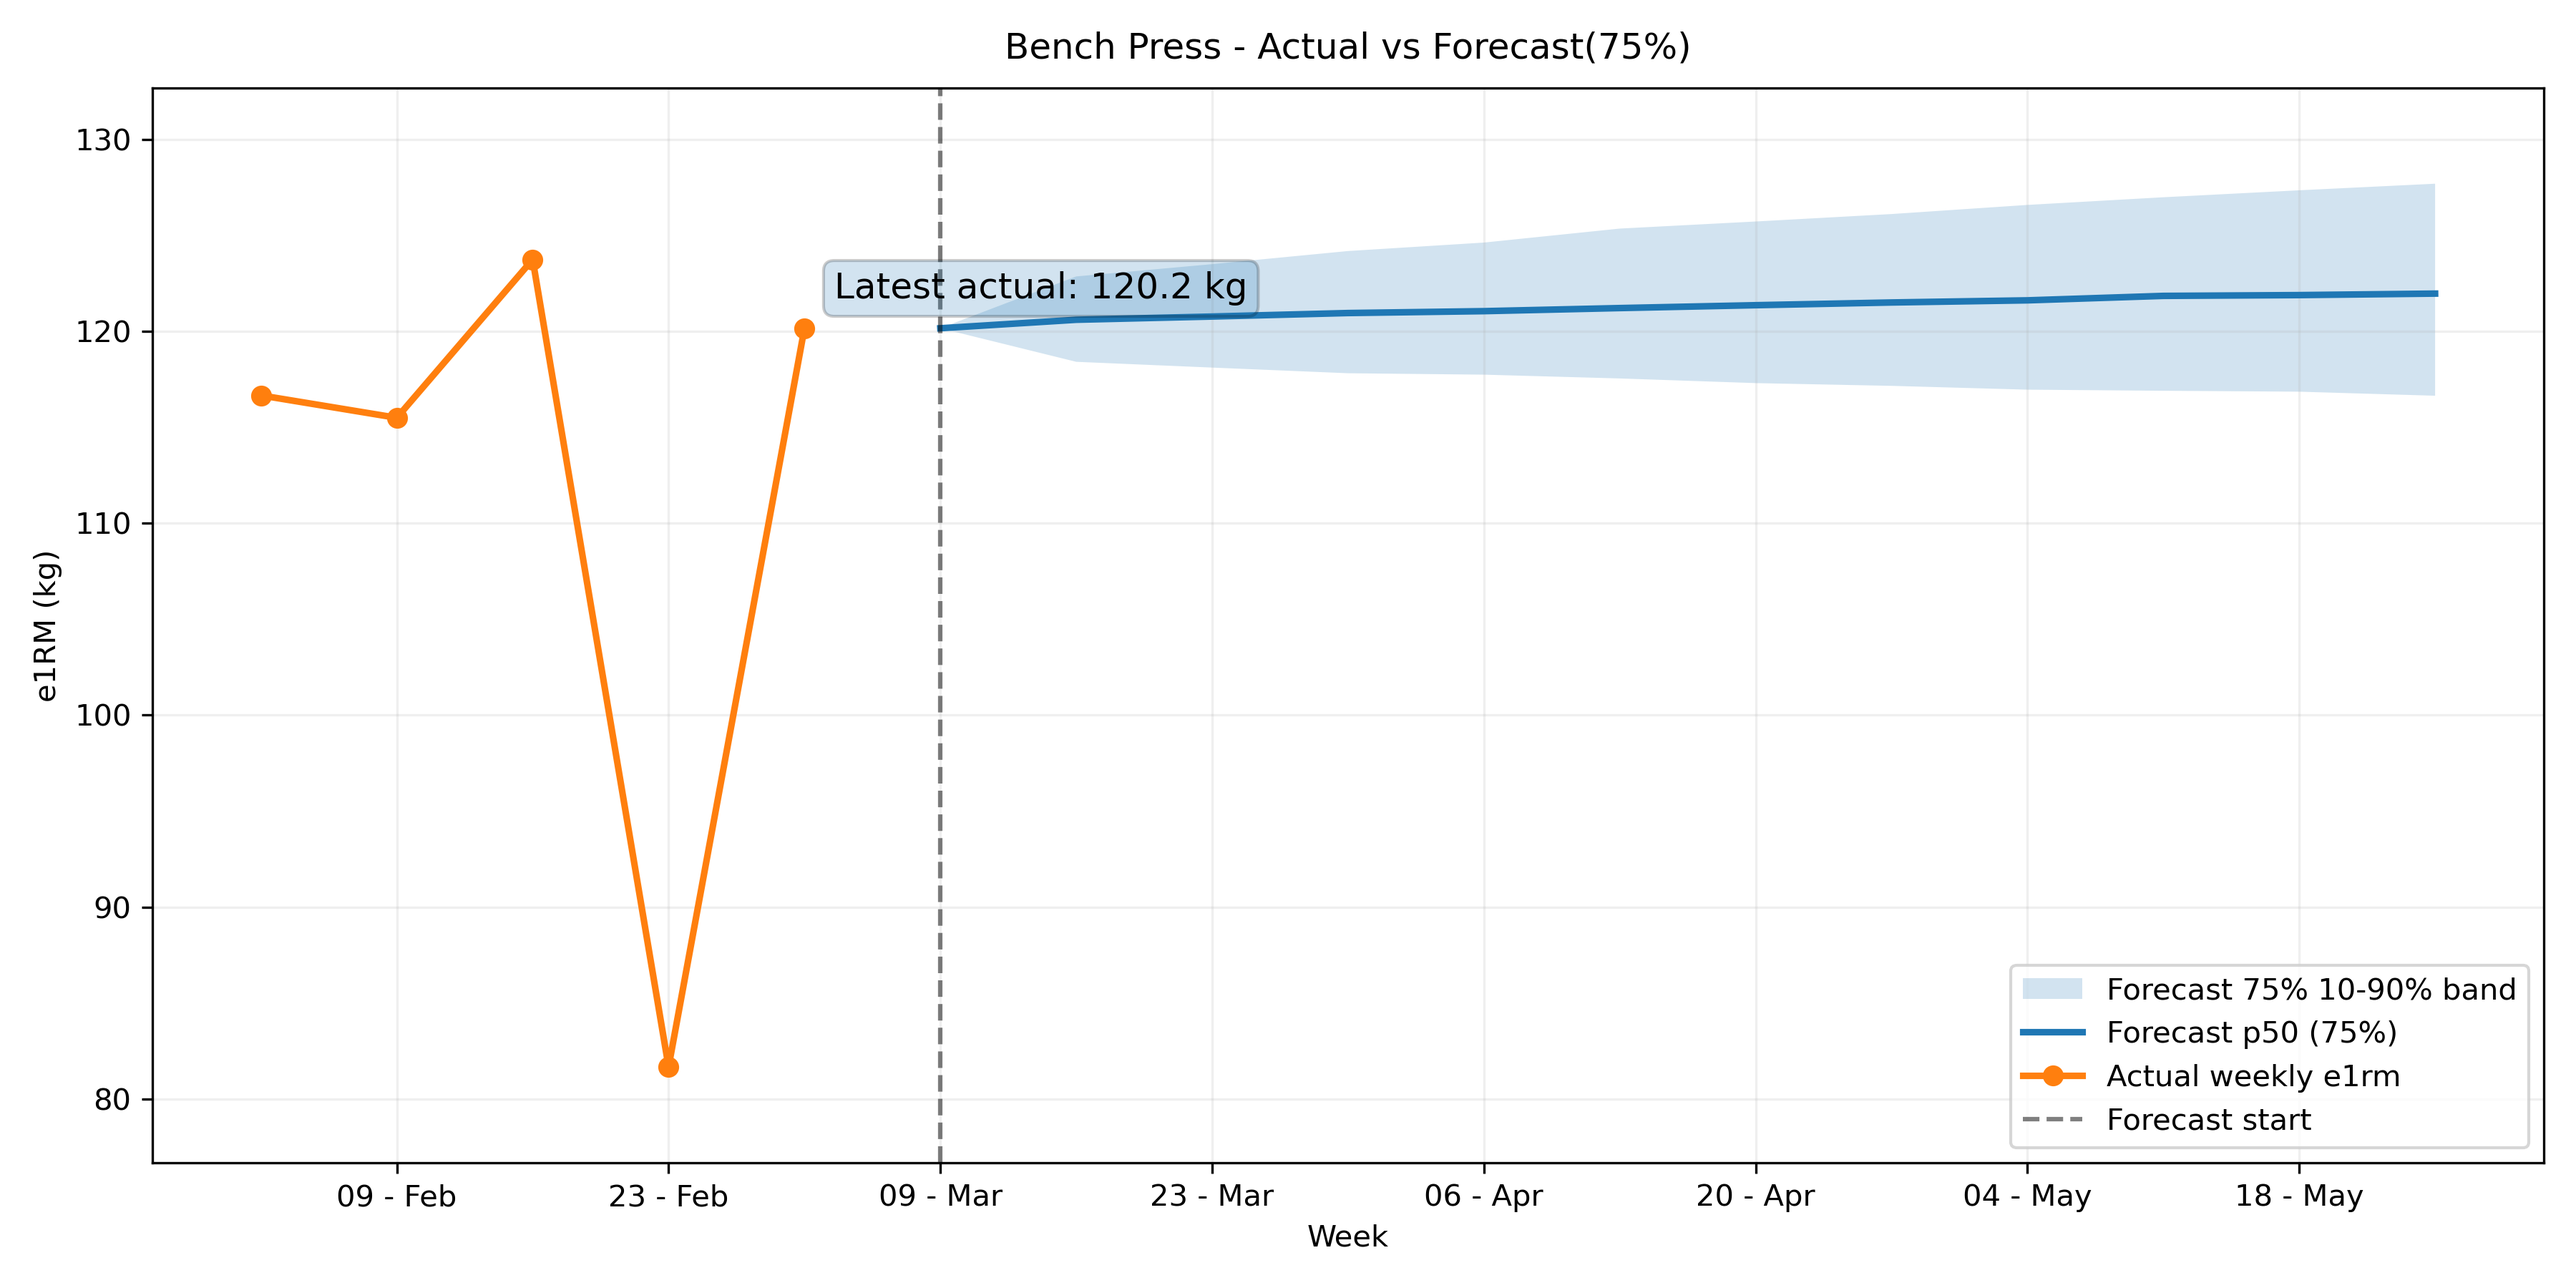
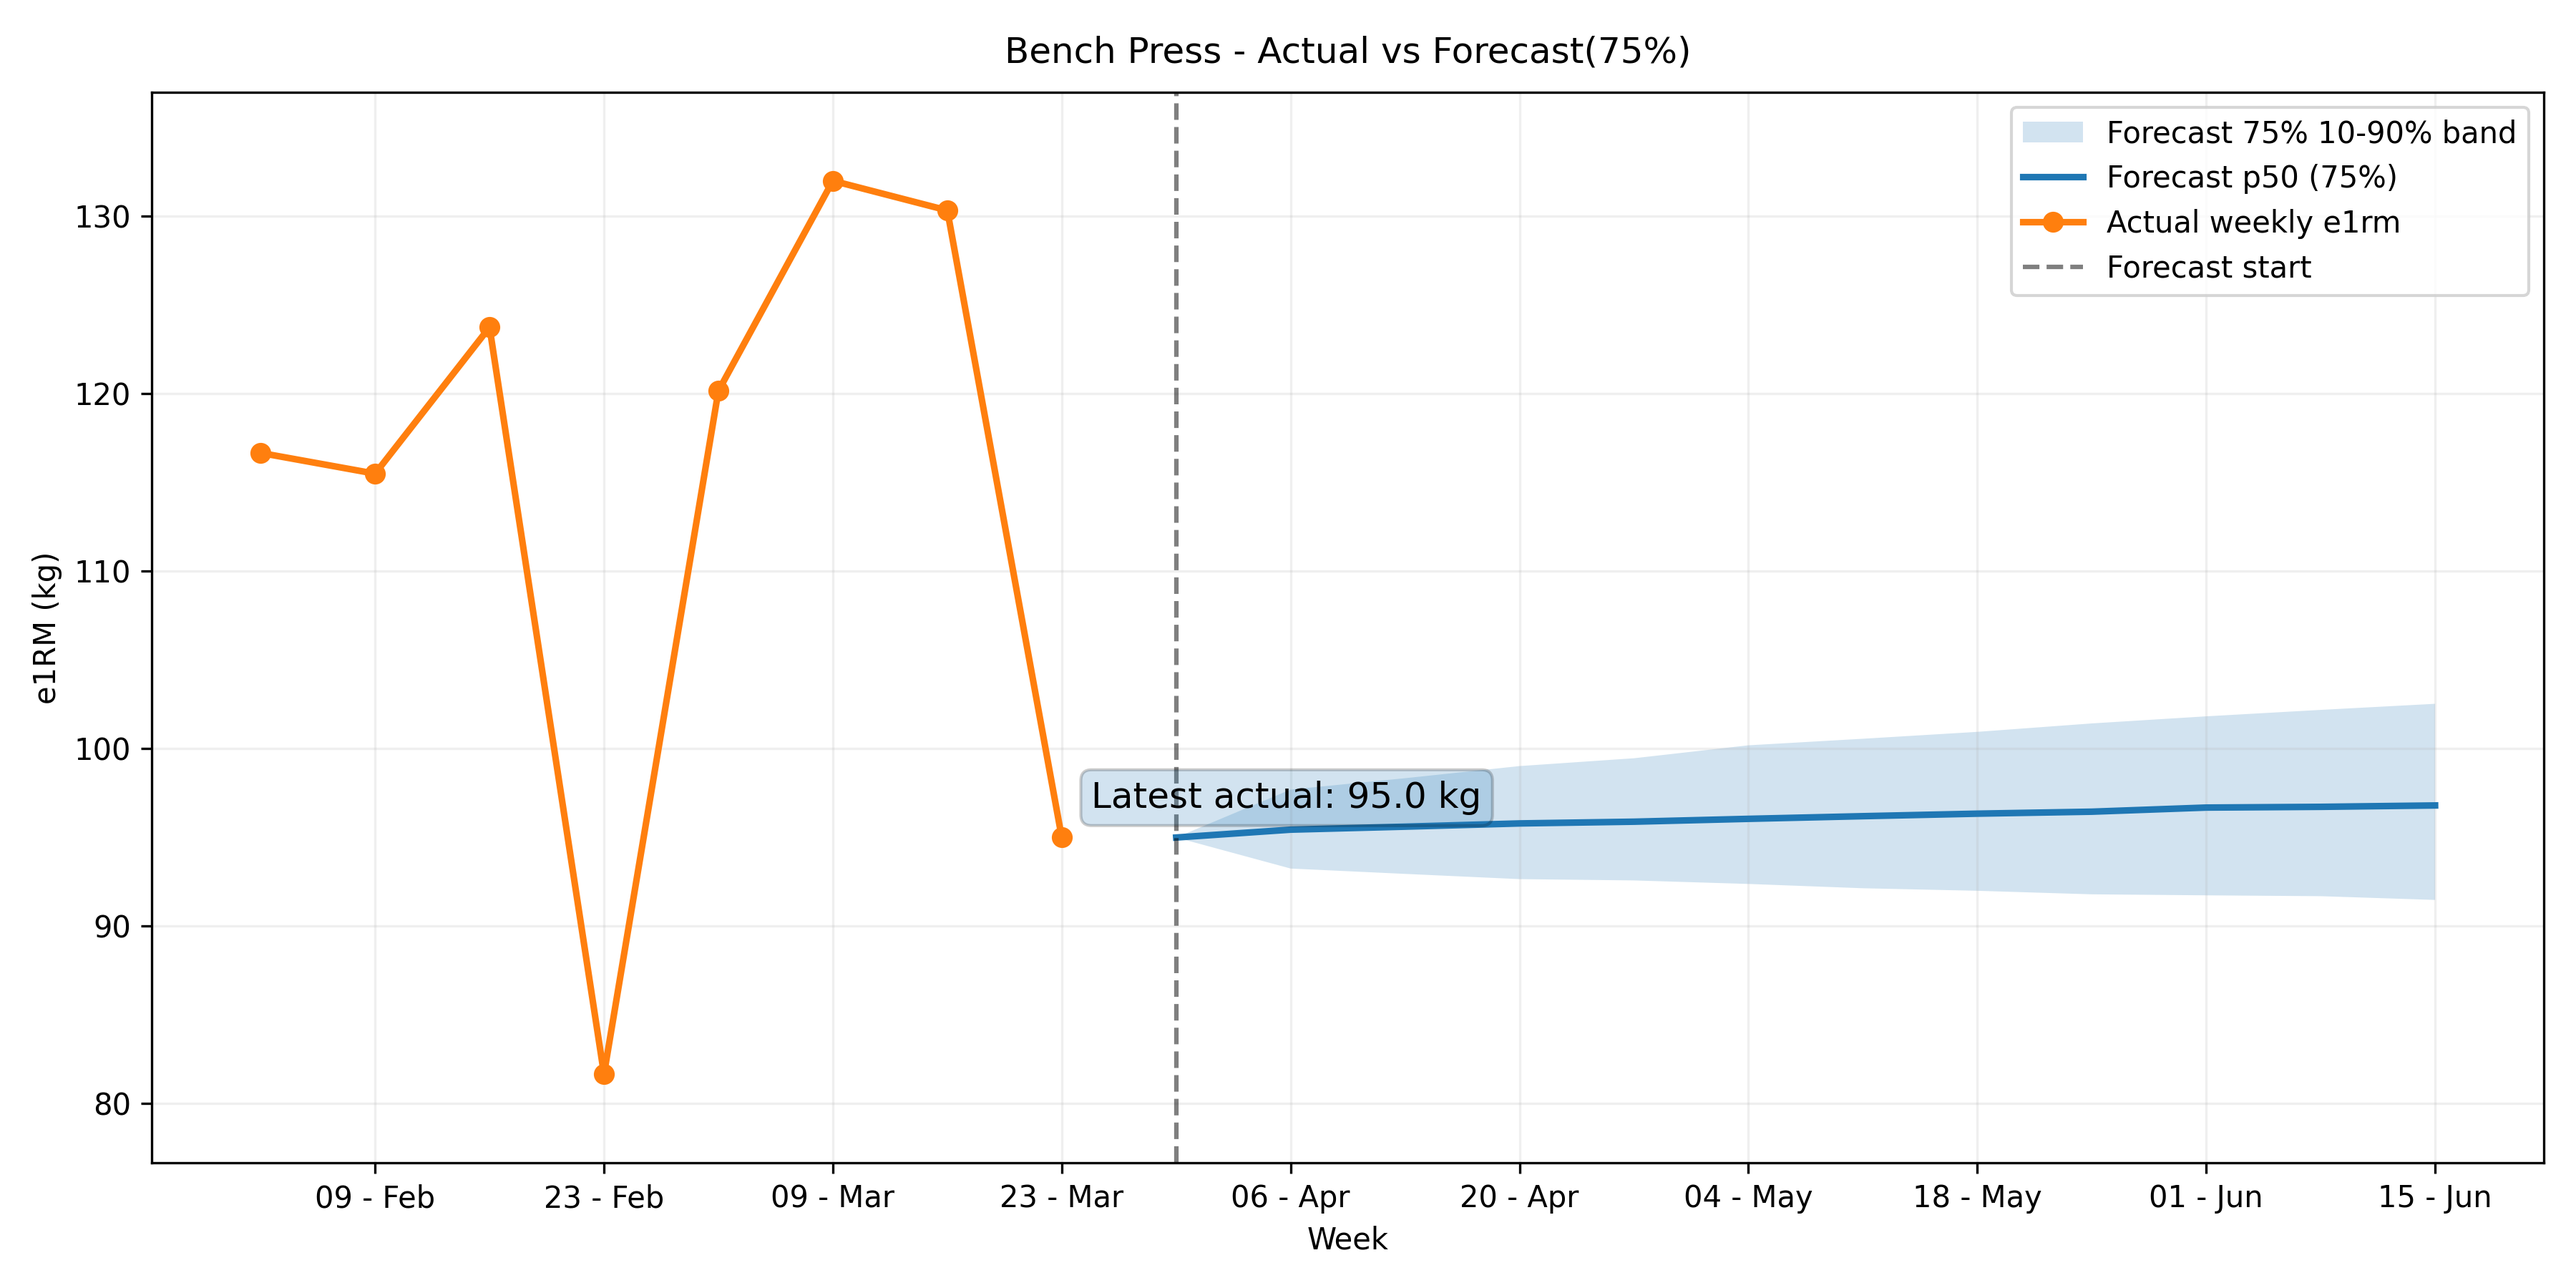
Refresh pipeline with updated training data

diff --git a/docs/kpi_snapshot.md b/docs/kpi_snapshot.md
@@ -1,5 +1,5 @@
 | Lift        | Latest week         |   Latest e1RM (kg) | Forecast horizon week   |   Forecast p50 (kg) |   Uncertainty width p90–p10 (kg) |
 |:------------|:--------------------|-------------------:|:------------------------|--------------------:|---------------------------------:|
-| Bench Press | 2026-03-02 00:00:00 |              120.2 | 2026-05-25 00:00:00     |               122   |                             11   |
-| Deadlift    | 2026-03-02 00:00:00 |              210   | 2026-05-25 00:00:00     |               213.6 |                             23   |
-| Squat       | 2026-03-02 00:00:00 |              181.1 | 2026-05-25 00:00:00     |               183.8 |                             18.4 |
+| Deadlift    | 2026-03-23 00:00:00 |              151.7 | 2026-06-15 00:00:00     |               155.3 |                             23   |
+| Bench Press | 2026-03-23 00:00:00 |               95   | 2026-06-15 00:00:00     |                96.8 |                             11   |
+| Squat       | 2026-03-23 00:00:00 |              116.7 | 2026-06-15 00:00:00     |               119.4 |                             18.4 |
